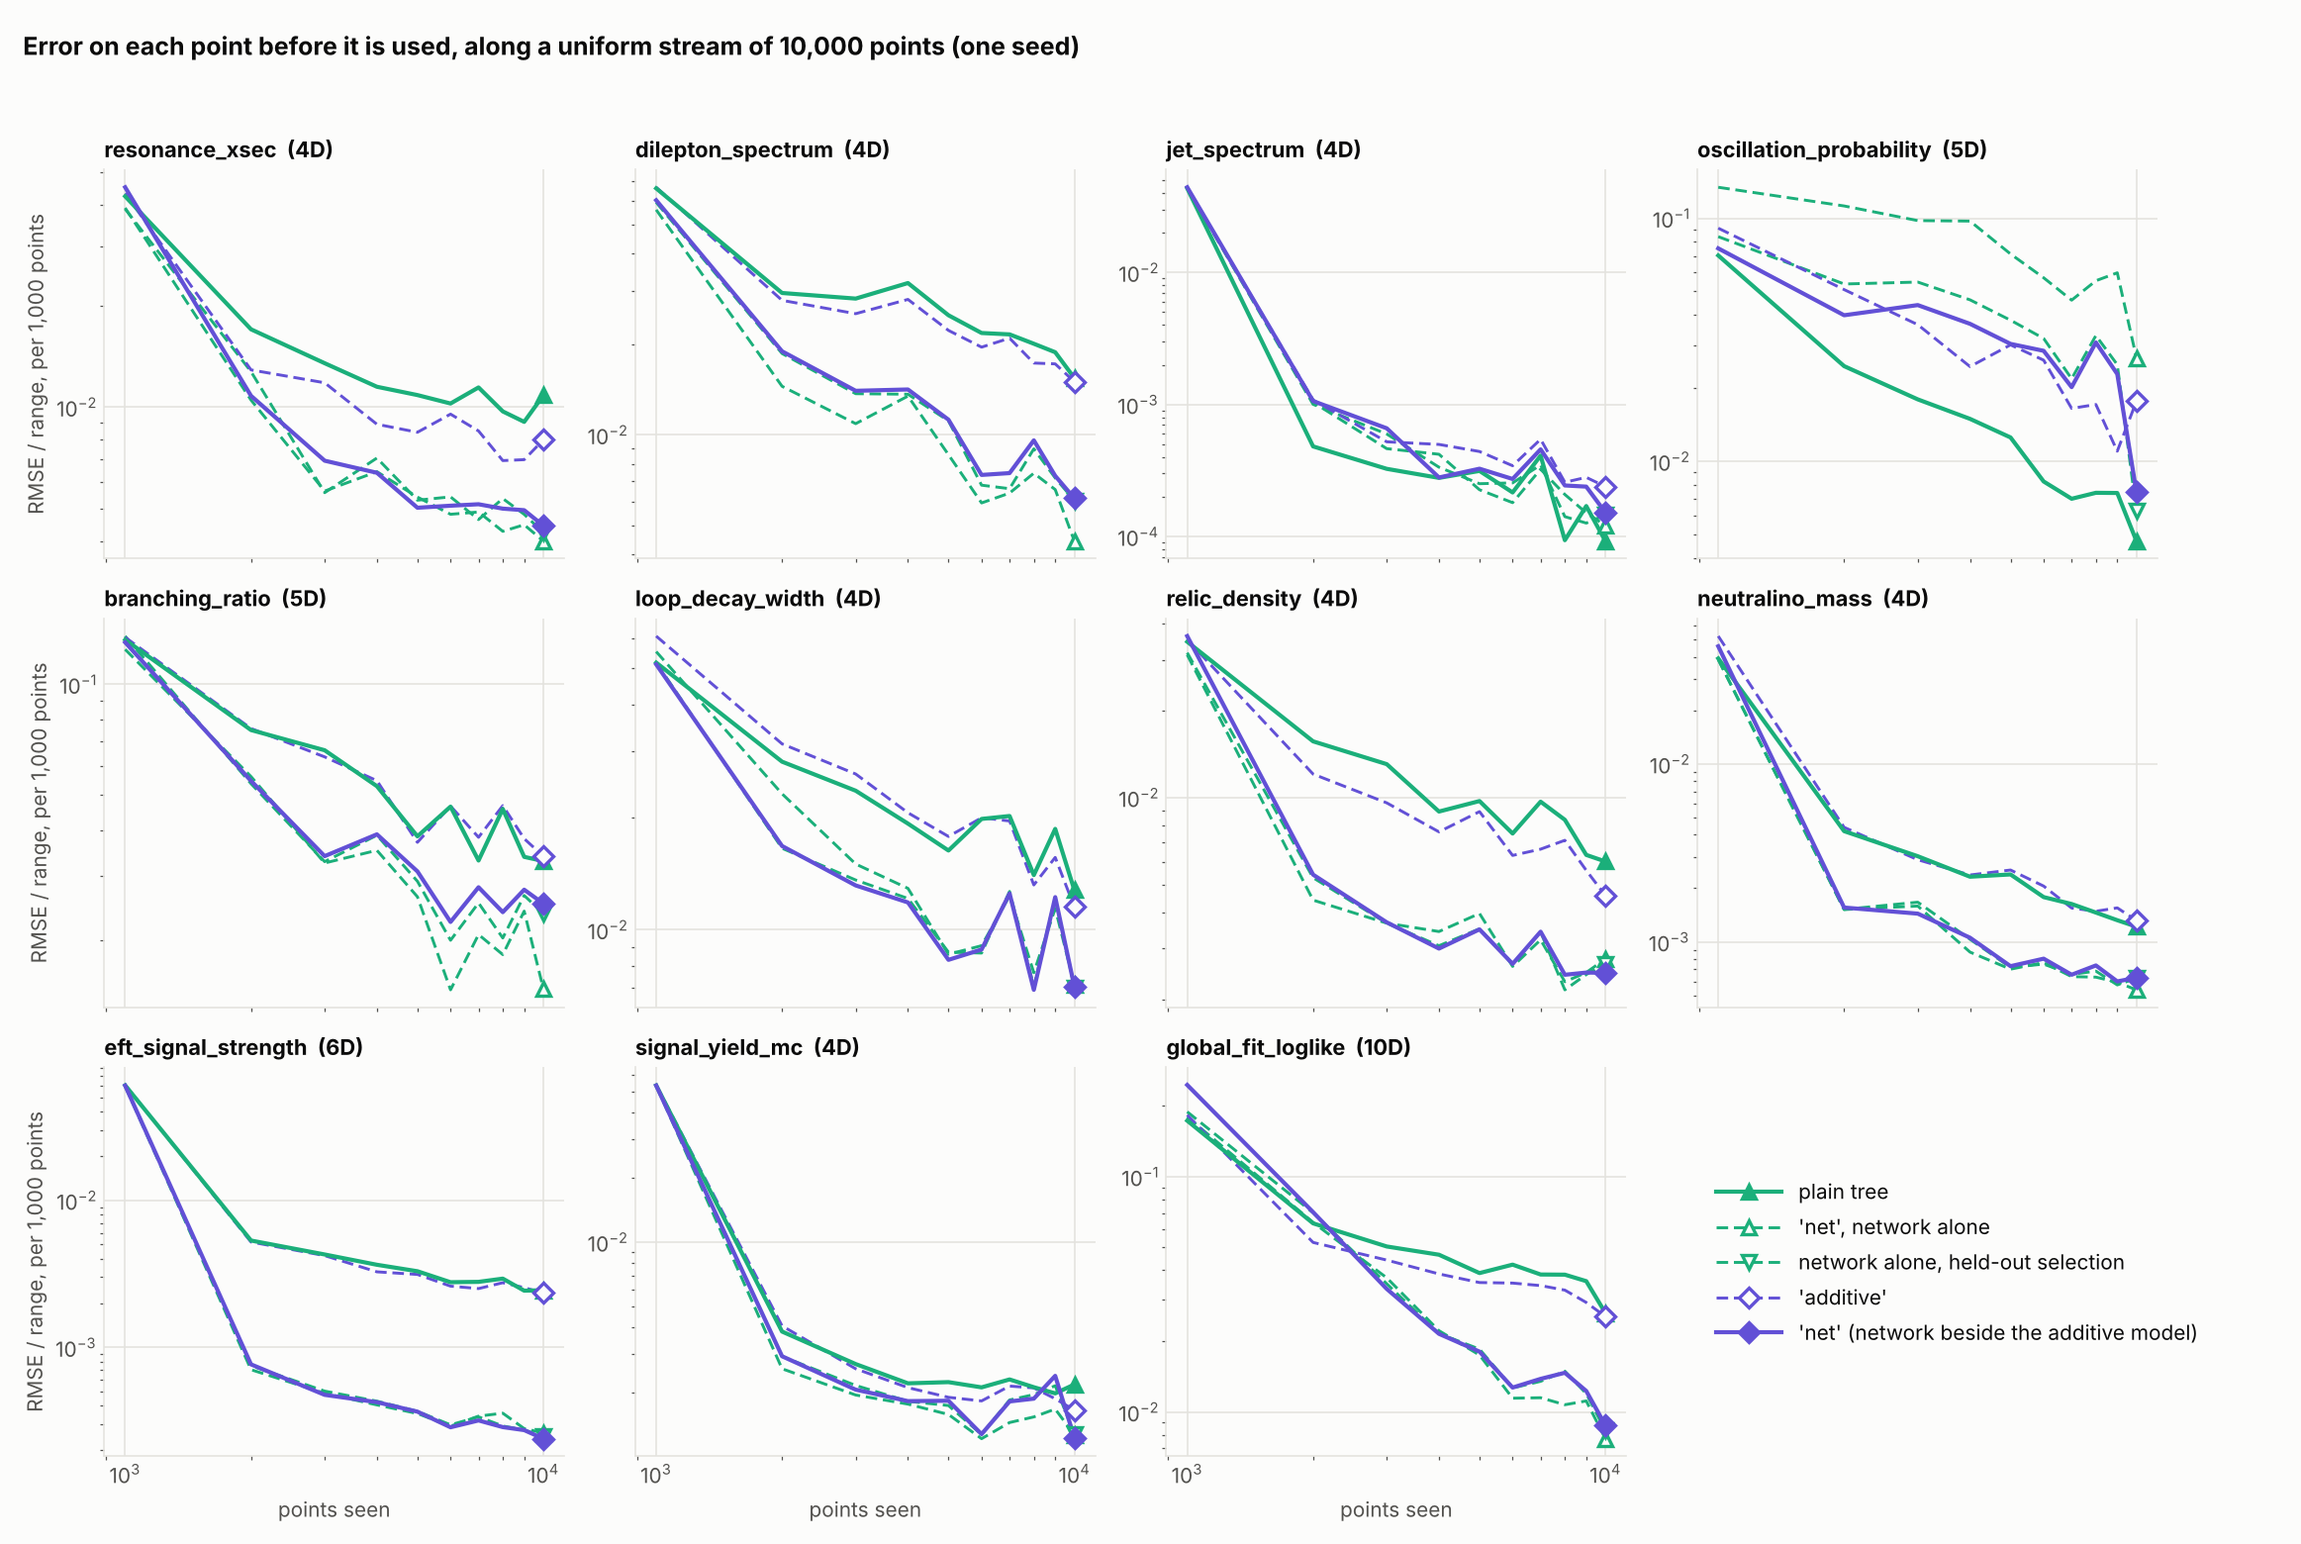
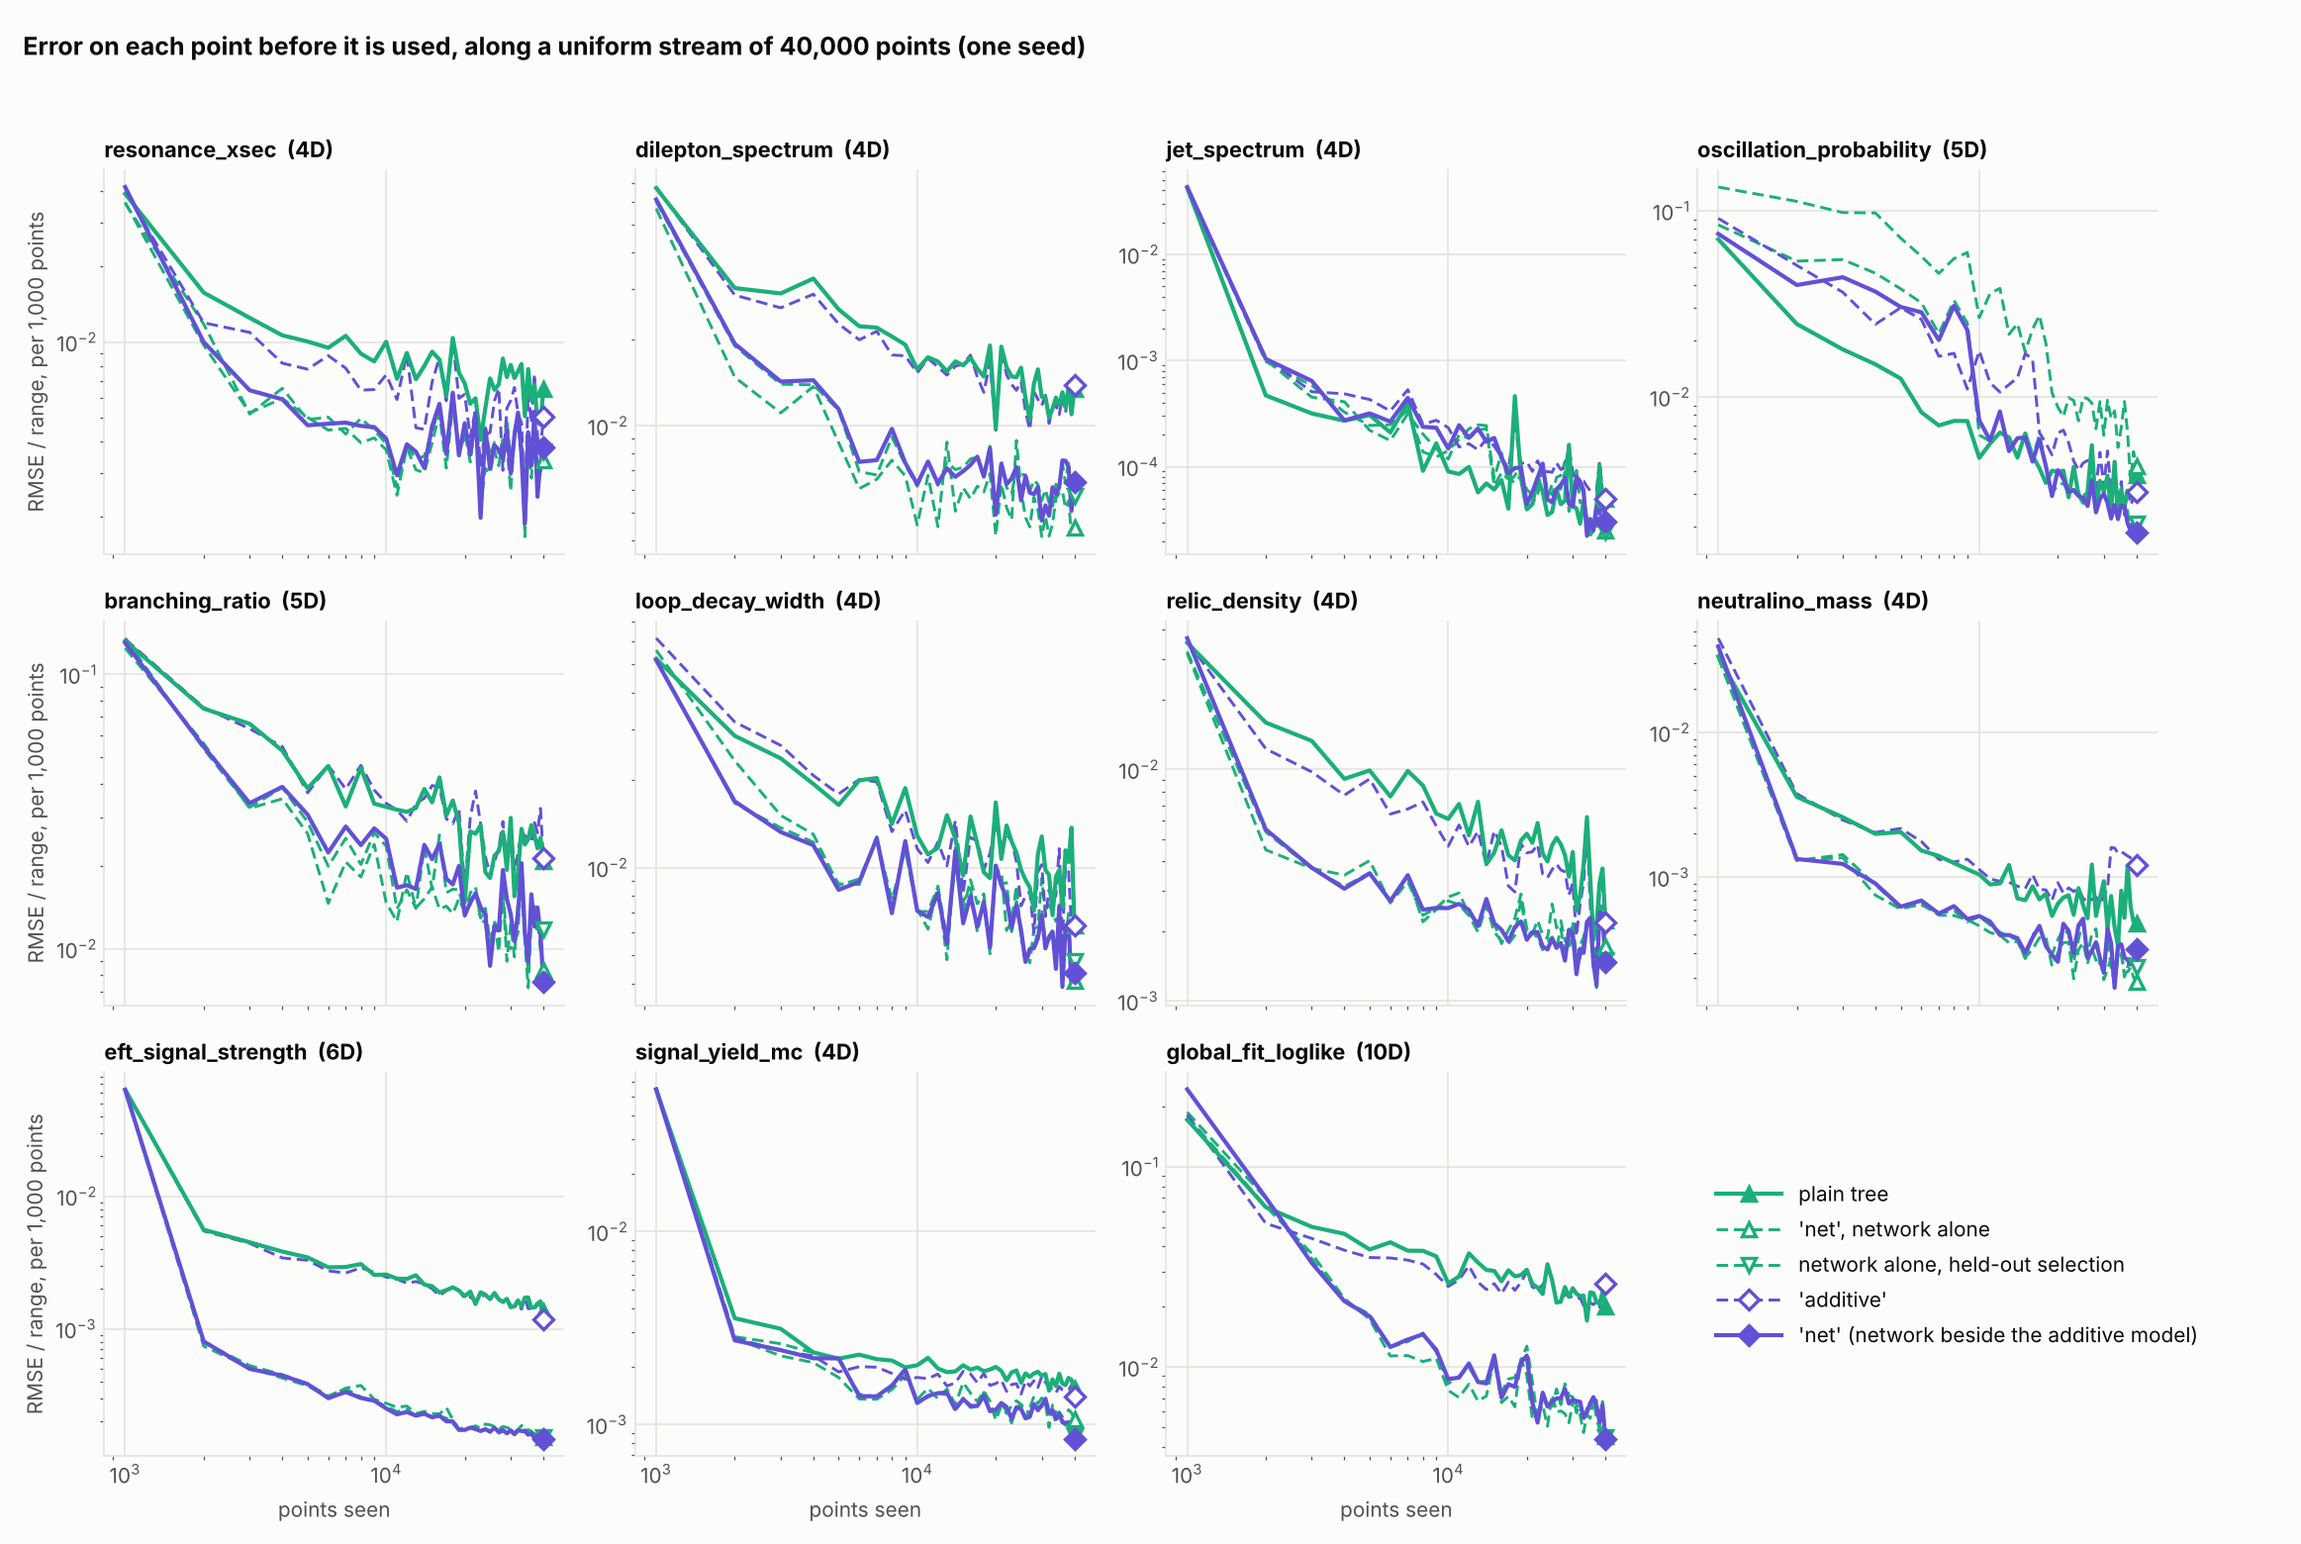
Physics targets: results for 40 000 points
One seed per target and configuration, with the error along the stream.
'net' has 0.47 of the plain tree's test error and is ahead on all eleven
targets; on the oscillation probability and the jet spectrum, which show
no gain at 10 000 points, it overtakes the plain tree later in the stream.

Claude-Session: https://claude.ai/code/session_01KUBG4MtnHjD1p2rPJk4FBh

diff --git a/examples/BENCHMARK_RESULTS_particle_physics.md b/examples/BENCHMARK_RESULTS_particle_physics.md
@@ -12,12 +12,16 @@ Short answer, from eleven test targets, streams of 10 000 points and three seeds
   targets and seeds) and a lower error in 28 of 33 runs: a tenth on the EFT signal
   strength, 0.35 to 0.49 on six targets, and about two thirds on the loop-induced width
   and on the signal yield with Monte Carlo noise.
-* **Two targets gain nothing from a global model.** On the oscillation probability
-  `'net'` is level with the plain tree in two seeds and has 3.3 times its error in the
-  third, and along the stream the plain tree is ahead throughout. On the jet spectrum the
-  typical error is the same with and without the network (a median of 0.04% of the
-  cross-section, a 95th percentile of 0.4 to 0.6%), but the RMSE, which a few test points
-  at the kinematic edge dominate, is about twice the plain tree's.
+* **Two targets gain nothing from a global model at 10 000 points.** On the oscillation
+  probability `'net'` is level with the plain tree in two seeds and has 3.3 times its
+  error in the third, and along the stream the plain tree is ahead throughout. On the jet
+  spectrum the typical error is the same with and without the network (a median of 0.04%
+  of the cross-section, a 95th percentile of 0.4 to 0.6%), but the RMSE, which a few test
+  points at the kinematic edge dominate, is about twice the plain tree's.
+* **With 40 000 points** (one seed) `'net'` has 0.47 of the plain tree's test
+  error and is ahead on all eleven targets, these two included (0.79 on each): on the
+  oscillation probability it overtakes the plain tree after about 20 000 points. For the
+  same seed at 10 000 points the figure was 0.48.
 * **The additive model does not help on these targets.** `global_mean='additive'` has
   1.09 of the plain tree's RMSE (6 to 14% lower on six targets, level on three,
   higher on the same two as the network), and its median error is two or more times the
@@ -35,7 +39,8 @@ Short answer, from eleven test targets, streams of 10 000 points and three seeds
 * The typical error is small with and without the network (a median of 0.04 to 1.2% of
   the quantity for the logarithmic targets); what the network improves is the tail at
   thresholds, dips and funnels, by factors of two to five in the 95th percentile.
-* The run time of `'net'` is 1.9 times that of the plain tree.
+* The run time of `'net'` is 1.9 times that of the plain tree at 10 000 points
+  and 1.4 times at 40 000.
 
 ![Test error of every configuration on every target](results/particle_physics/results.png)
 
@@ -86,7 +91,7 @@ target.
   the combination (`additive=False, holdout=0.2, patience=None`: a fifth of the points
   held out, the weights with the lowest error on them published).
 * 10 000 points and seeds 1 to 3 for the uniform stream, one seed for the sampler
-  stream. A table entry is the geometric mean over the seeds.
+  stream and for 40 000 points. A table entry is the geometric mean over the seeds.
 * Run times are from four single-threaded runs side by side on a four-core machine.
 
 ## Results: uniform stream, 10 000 points
@@ -273,9 +278,88 @@ six in the region the walk has explored. On the points at the front of the walk 
 prequential column) the differences are small, because every global model extrapolates
 there; only the network alone with held-out selection is clearly ahead of the plain tree.
 
+## Results: 40 000 points
+
+One seed, uniform stream. Test RMSE over the range of the target:
+
+| target | plain tree | `'additive'` | `'net'` | network alone | network alone, held-out selection |
+|---|---|---|---|---|---|
+| resonance_xsec (4D) | 0.0057 | 0.0050 | **0.0037** | 0.0039 | 0.0043 |
+| dilepton_spectrum (4D) | 0.0127 | 0.0115 | 0.0058 | **0.0045** | 0.0055 |
+| jet_spectrum (4D) | 5.05e-05 | 5.70e-05 | **4.01e-05** | 4.28e-05 | 4.26e-05 |
+| oscillation_probability (5D) | 0.0025 | 0.0029 | 0.0020 | 0.0036 | **0.0020** |
+| branching_ratio (5D) | 0.0208 | 0.0196 | 0.0119 | **0.0119** | 0.0121 |
+| loop_decay_width (4D) | 0.0085 | 0.0099 | **0.0057** | 0.0065 | 0.0059 |
+| relic_density (4D) | 0.0035 | 0.0029 | 0.0020 | 0.0021 | **0.0020** |
+| neutralino_mass (4D) | 7.14e-04 | 0.0013 | 3.07e-04 | **2.42e-04** | 2.89e-04 |
+| eft_signal_strength (6D) | 0.0015 | 0.0014 | **1.59e-04** | 1.61e-04 | 1.64e-04 |
+| signal_yield_mc (4D) | 0.0017 | 0.0016 | **0.0010** | 0.0012 | 0.0011 |
+| global_fit_loglike (10D) | 0.0219 | 0.0218 | 0.0057 | **0.0048** | 0.0055 |
+
+Relative to the plain tree:
+
+| target | `'additive'` | `'net'` | network alone | network alone, held-out selection |
+|---|---|---|---|---|
+| resonance_xsec | 0.87 | 0.65 | 0.69 | 0.75 |
+| dilepton_spectrum | 0.91 | 0.46 | 0.35 | 0.43 |
+| jet_spectrum | 1.13 | 0.79 | 0.85 | 0.84 |
+| oscillation_probability | 1.16 | 0.79 | 1.44 | 0.78 |
+| branching_ratio | 0.94 | 0.57 | 0.57 | 0.58 |
+| loop_decay_width | 1.17 | 0.67 | 0.76 | 0.69 |
+| relic_density | 0.81 | 0.57 | 0.60 | 0.56 |
+| neutralino_mass | 1.77 | 0.43 | 0.34 | 0.40 |
+| eft_signal_strength | 0.93 | 0.11 | 0.11 | 0.11 |
+| signal_yield_mc | 0.94 | 0.58 | 0.67 | 0.64 |
+| global_fit_loglike | 0.99 | 0.26 | 0.22 | 0.25 |
+| **geometric mean** | **1.03** | **0.47** | **0.49** | **0.48** |
+| runs with a lower error than the plain tree | 7 of 11 | 11 of 11 | 10 of 11 | 11 of 11 |
+
+![Error along the stream](results/particle_physics/curves.png)
+
+The curves are the error on each batch of 1000 points before the points are used.
+
+* **The gain of the network holds at four times the data.** `'net'` has 0.47 of
+  the plain tree's test error and is ahead on all eleven targets; for the same seed at
+  10 000 points the figure was 0.48. Along the stream its error over the eleven
+  targets is 0.59 of the plain tree's on the first 5000 points, 0.55 up to 10 000, 0.51
+  up to 20 000 and 0.48 after that.
+* **The gain moves between targets.** It shrinks on three, where the tree with the
+  network improves little between 10 000 and 40 000 points while the plain tree keeps
+  improving (resonance cross-section 0.41 to 0.65, relic density 0.33 to 0.57,
+  loop-induced width 0.53 to 0.67). It stays within 0.05 on six, and it appears on the
+  two targets that had none.
+* **Oscillation probability.** `'net'` has 1.9 to 2.9 times the plain tree's error over
+  the first 10 000 points, is level with it between 10 000 and 20 000, and has 0.74 of
+  its error over the last 10 000 (0.79 on the test set). The network alone without
+  held-out selection is at twice the plain tree's error to the end.
+* **Jet spectrum.** With a network the tree is behind the plain tree by a factor of 1.1
+  to 1.7 along the first 30 000 points and level with it on the last 10 000. On the test
+  set `'net'` has 0.79 of the plain tree's RMSE: the median error is the same (0.02 to
+  0.03% of the cross-section), and the largest error, at the kinematic edge, is now
+  smaller with the network (0.015 dex) than without (0.027 dex).
+* **`'net'` and the network alone with held-out selection are the same model here**
+  (0.98 in the geometric mean, 0.86 to 1.06 from target to target); the
+  additive model has weight zero on every target. The difference that remains is the run
+  time, since the leaves of `'net'` take up a new version of the global model by the
+  cheap refit.
+* **The additive model on its own** stays level with the plain tree (1.03) and
+  gets worse on one target late in the stream: on the neutralino mass its error doubles
+  after 31 000 points. The fit of its hyperparameters at 30 720 points moves two inputs
+  to length scales of 3 to 4% of the range. The additive model's own test error does not
+  change (0.076 of the range before and after), but what it leaves for the leaves now has
+  structure at their scale.
+* **Uncertainty.** The one-sigma coverage on the test set is between 0.62 and 0.79, with
+  three exceptions: the relic density with the additive model (0.49), the EFT signal
+  strength with a network alone (0.55 and 0.57; 0.66 with `'net'`), and the signal yield
+  with Monte Carlo noise (0.98 to 1.00, for the reason given above).
+* **Cost.** 160 to 250 seconds for the plain tree, 261 to 353 for `'net'`.
+  Relative to the plain tree: `'additive'` 1.2, `'net'` 1.4, the network
+  alone 1.9, with held-out selection 1.8. The share of the global
+  model in the run time falls with the length of the stream, because its refits come at
+  doublings.
 
 
-## Where a global model does not help
+## Where a global model is slow to help
 
 **Jet spectrum.** Close to a power law in the bulk, where the plain tree's median error
 is 0.04% of the cross-section and its 95th percentile 0.4 to 0.5%. With the network both
@@ -288,7 +372,8 @@ is 0.06 to 0.18 dex, against 0.02 to 0.03 dex for the plain tree, and that is th
 the factor in the RMSE. The additive model is worse throughout the cube here (in seed 1
 its median error is three times the plain tree's): its fit compromises between the bulk
 and the corner, which leaves a residual of about 0.5 dex that bends along p_T and
-rapidity where the target itself is nearly straight.
+rapidity where the target itself is nearly straight. With 40 000 points the trees with
+a network no longer lose in the corner, and `'net'` has 0.79 of the plain tree's RMSE.
 
 **Oscillation probability.** The additive part of an oscillation whose phase is
 `dm31 / E` is, along the energy, the oscillation averaged over `dm31`: a damped wave.
@@ -298,18 +383,21 @@ and the error it leaves is again a wave. In both cases the residual is no easier
 leaf than the target. Along the stream the plain tree is ahead of every global model, by
 factors of 1.9 to 8.5 in the prequential error above. At the end `'net'` is level with
 it in two seeds and at 3.3 times its error in the third; the network alone without
-held-out selection is at 4.9 to 8.7 times in all three.
+held-out selection is at 4.9 to 8.7 times in all three. With 40 000 points the order
+changes: `'net'` is level with the plain tree between 10 000 and 20 000 points and has
+0.74 of its error over the last 10 000.
 
 There is no rule in the package yet that detects these cases: the weights of `'net'`
 compare the two global models with each other on held-out points, not the tree with and
-without them. A short trial is the practical test, since the prequential error needs no
-test set: stream the first few thousand points into a plain tree and into one with
-`global_mean='net'`, and keep the one with the lower error on the points before they
-were used.
+without them. A trial is the practical test, since the prequential error needs no test
+set: stream the points into a plain tree and into one with `global_mean='net'`, and
+compare the errors on the points before they were used. The order can change along the
+stream, as on the oscillation probability, so a trial of a few thousand points settles
+the question only for streams of about that length.
 
 ## Reproducing
 
-    # one cell (a few minutes); results as a line starting with RESULT
+    # one cell (a few minutes; add --N 40000 for the long streams); results as a line starting with RESULT
     OMP_NUM_THREADS=1 python examples/benchmark_particle_physics.py --targets relic_density --configs tree,additive,net,net_only,net_only_holdout --seeds 1
     # the sampler stream
     OMP_NUM_THREADS=1 python examples/benchmark_particle_physics.py --targets global_fit_loglike --stream sampler --configs tree,net

diff --git a/README.md b/README.md
@@ -250,7 +250,8 @@ tree's run time where the network alone takes 2.0 times
 (`examples/BENCHMARK_RESULTS_additive_sums.md`). On eleven targets with the structure of
 particle-physics computations (cross-sections with thresholds and resonances, a relic
 density, an oscillation probability, a likelihood with nuisance parameters) it has half
-the plain tree's error on average and no gain on two of them
+the plain tree's error on average, at 10 000 and at 40 000 points; on two of them the
+gain appears only between 10 000 and 40 000 points
 (`examples/BENCHMARK_RESULTS_particle_physics.md`).
 
 The network (`FeatureNetLearner`) is a 3 x 128 SiLU MLP refit when the point

diff --git a/examples/README.md b/examples/README.md
@@ -155,8 +155,9 @@ python benchmark_particle_physics.py --summarize results/particle_physics/unifor
 python plot_particle_physics.py
 ```
 
-Streams 10 000 points of each target into a plain tree and into trees with a global
-model, on a uniform scan or (for the likelihood) on the proposals of a Metropolis walk;
+Streams 10 000 points of each target (`--N` for other lengths) into a plain tree and
+into trees with a global model, on a uniform scan or (for the likelihood) on the
+proposals of a Metropolis walk;
 see `BENCHMARK_RESULTS_particle_physics.md`.
 
 ### Animated Visualization
